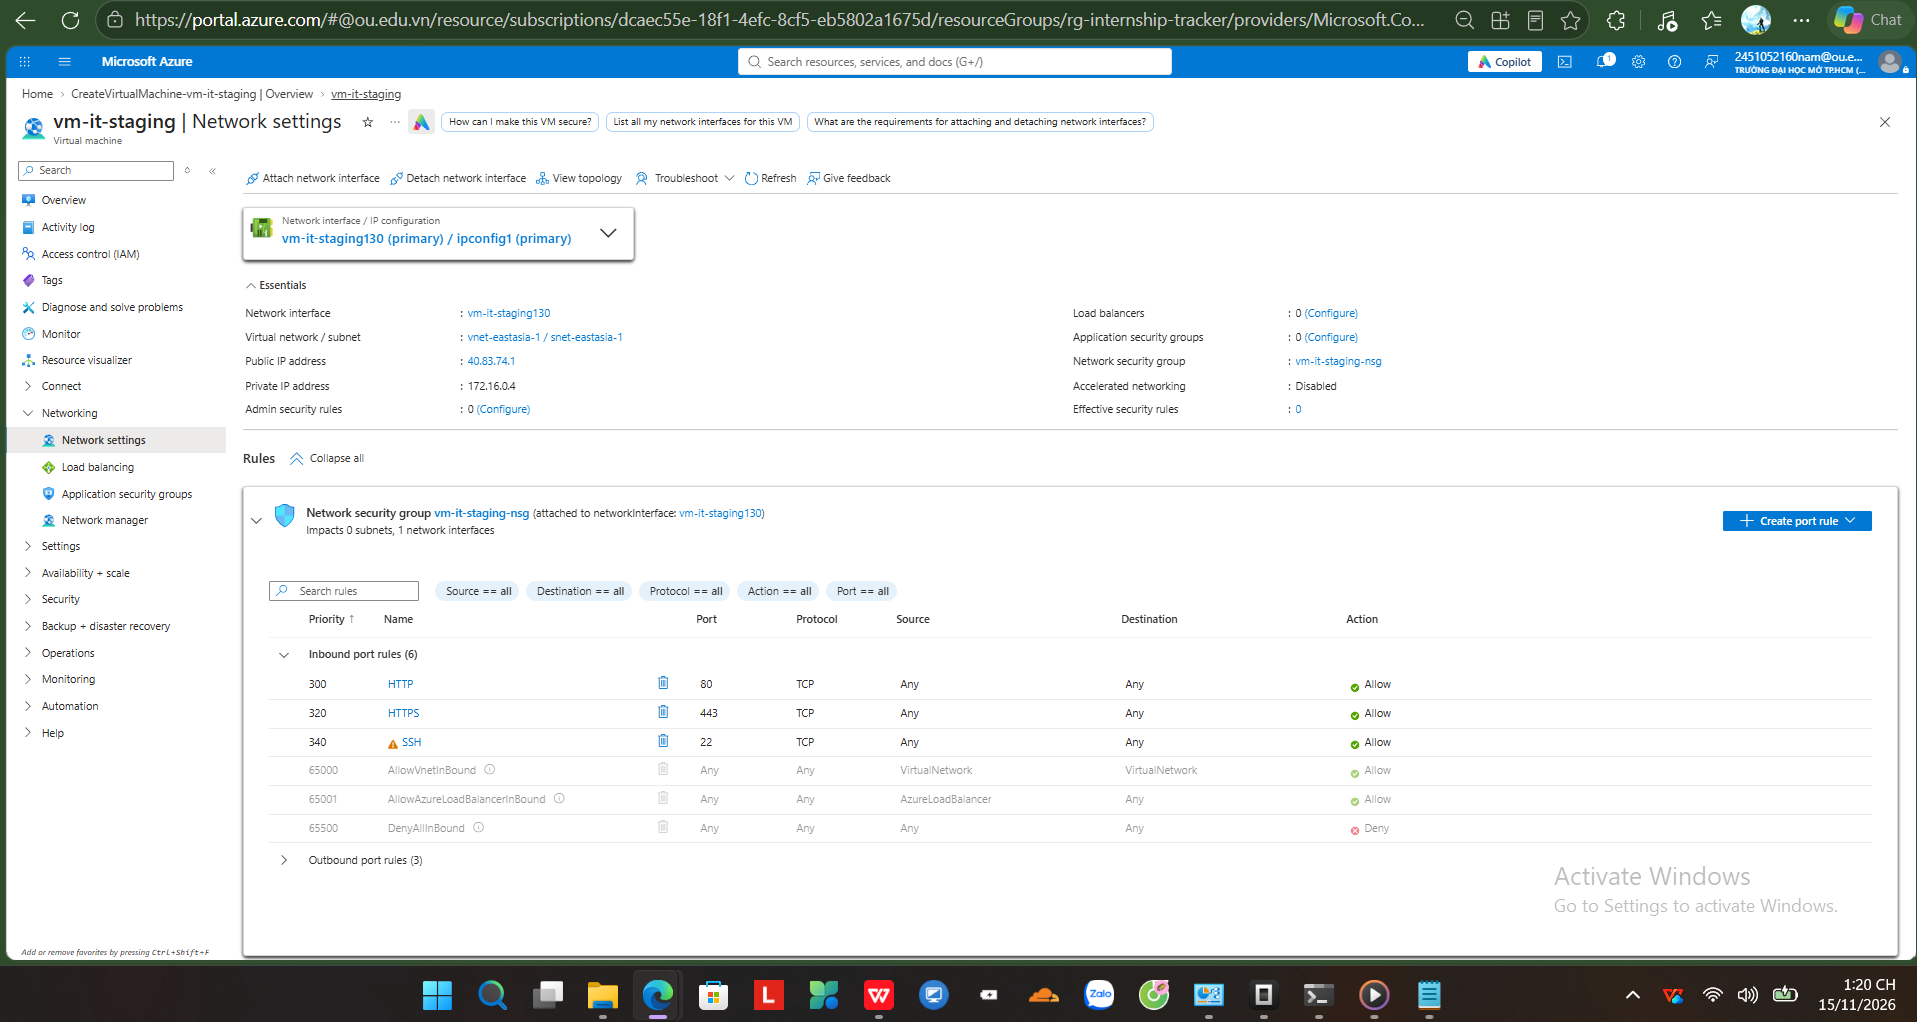
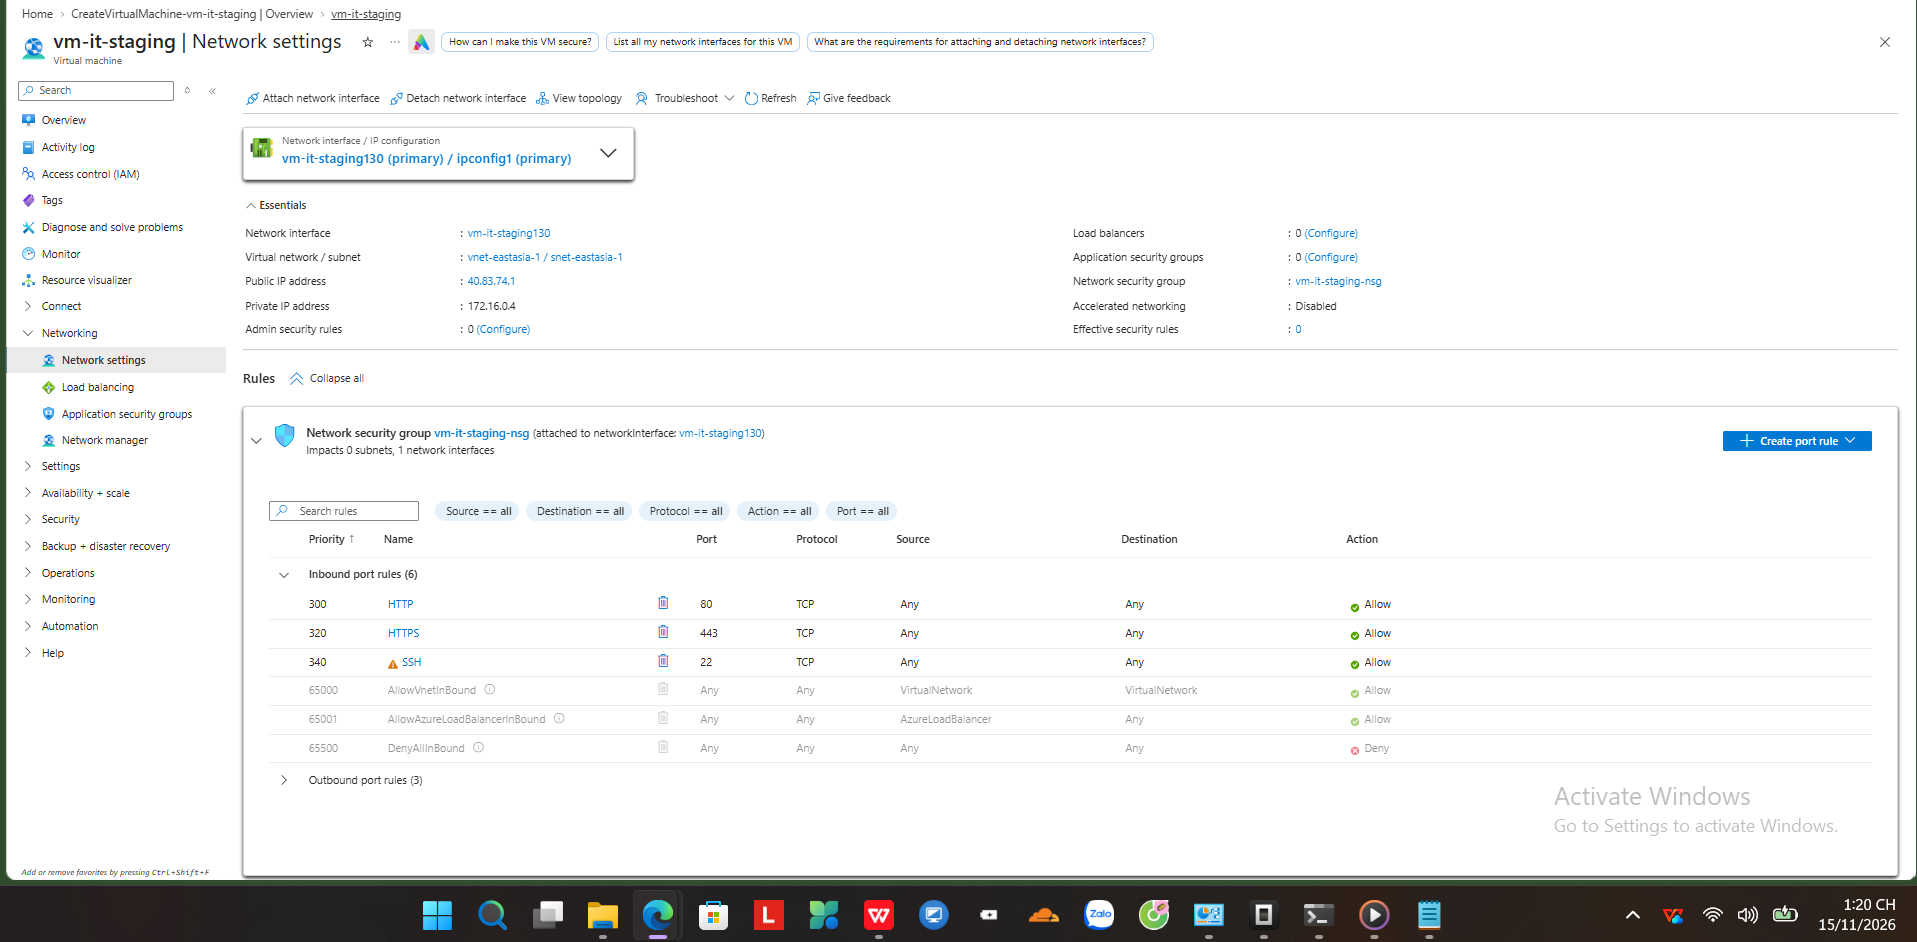
fix(pii): redact school email/MSSV + crop NSG screenshot on main

diff --git a/docs/00-setup-14-15-11.md b/docs/00-setup-14-15-11.md
@@ -141,7 +141,7 @@ Nếu kênh Discord nhận được tin → webhook OK.
 |---|---|---|---|
 | 1 | Provider | **Azure for Students** — `Standard_B2ats_v2`, region **East Asia** (B-series bị chặn ở Southeast Asia) | 2 lớp firewall: **NSG** (portal) + **ufw** (máy). Không có bẫy `iptables` như Oracle. Nhớ **Stop → Deallocate** để giữ credit |
 | 2 | Domain | **DuckDNS** `internship-tracker.duckdns.org` (0đ) | không có tiền tố `staging`, nhưng `duckdns.org` nằm trong Public Suffix List → rate limit Let's Encrypt tính riêng, an toàn. Mua domain thật sau trial nếu muốn |
-| 3 | Ai đứng tên tài khoản | người trực tiếp làm infra (tài khoản trường `2451052160nam@ou.edu.vn`) | không nhờ ai đứng tên; credit $100 hết hạn 14/11/2027, **không thẻ** → không thể phát sinh phí |
+| 3 | Ai đứng tên tài khoản | người trực tiếp làm infra (email trường của Nam — lưu Bitwarden) | không nhờ ai đứng tên; credit $100 hết hạn 14/11/2027, **không thẻ** → không thể phát sinh phí |
 
 Ghi 3 quyết định này vào `docs/decisions/0001-vps-provider.md` và `0002-domain.md` **trong buổi kickoff 16/11** (mẫu ngắn: bối cảnh → lựa chọn → phương án loại → hệ quả).
 
